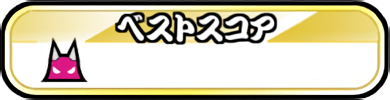
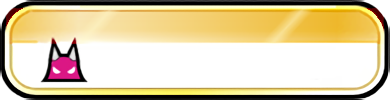
TNDE 選曲画面: 重なり順・記録の数・右上の時間・印の大きさ・自己ベスト・背景の模様を本家に合わせる
- 重なり順を本家と同じに（難易度えらびの板の上にどんちゃん・2人プレイの雲）
- 左の記録の数を、自己ベストと同じ数字の絵（灰色の字に白い縁）に
- 右上に時間の丸を出し、∞ を本家の数字と同じ灰色・太さの線で描く
- 難易度えらびの後ろの印: 本家と輪の縁を重ねて測り、1.5 倍・真ん中 (201, 408)・不透明度 0.65 に
- 自己ベスト: 枠を 1.6 倍・左上 (29, 581) に、字を「自己ベスト」に（素材の「ベストスコア」は消して描く）、帯を本家の濃い金に、数字も大きく
- 背景の模様: 本家は素材の明るさを反転したもの。周りの平均からの差で見て下まで同じ濃さに、本家と重ねて測った 1.86 倍・(-868, -53) から並べる

Claude-Session: https://claude.ai/code/session_01Me3BaKaMLtBydUuL8JSFsg

Changed region(s): [[0.0, 0.03, 0.9846, 0.45], [0.1231, 0.36, 0.1538, 0.45], [0.5538, 0.93, 0.6154, 0.96]]

diff --git a/src/home/tndeselect.ts b/src/home/tndeselect.ts
@@ -581,13 +581,8 @@ export class TndeSelect {
     const diffA = !inDiff ? 0 : this.diffOut >= 0 ? clamp(1 - this.diffOut / 300, 0, 1) : clamp((this.diffT - 1255) / 255, 0, 1);
     const course = inDiff ? this.courseAt(this.dsel) ?? 'Oni' : this.focusCourse();
     const ci = Math.max(0, COURSES.indexOf(course));
+    // 重なり順は本家と同じ: 印 → 一覧・難易度えらび → どんちゃん → 記録 → 右上 → 2人プレイの雲 → ネームプレート
     if (diffA > 0) this.mark(ci, diffA);
-    this.don();
-    this.side(ci);
-    this.full('header', 0, 1.5);
-    this.recolorHeader();
-    this.stageNums();
-    this.full('credit', 3.5, 3);
     if (listA > 0) {
       g.globalAlpha = listA;
       this.guideTop();
@@ -599,6 +594,13 @@ export class TndeSelect {
       this.diffScreen();
       g.globalAlpha = 1;
     }
+    this.don();
+    this.side(ci);
+    this.full('header', 0, 1.5);
+    this.recolorHeader();
+    this.stageNums();
+    this.timer();
+    this.full('credit', 3.5, 3);
     if (this.sk) {
       const pl = this.host.plate();
       this.sk.plate(g, { name: pl.name, title: pl.title, profile: pl.profile, wall: this.wall } as never, 60, 476);
@@ -632,21 +634,39 @@ export class TndeSelect {
         const o = document.createElement('canvas'); o.width = m.im.width; o.height = m.im.height;
         const c = o.getContext('2d')!; c.drawImage(m.im, 0, 0);
         const px = c.getImageData(0, 0, o.width, o.height), p = px.data;
-        for (let i = 0; i < p.length; i += 4) {
-          const L = (p[i] + p[i + 1] + p[i + 2]) / 3;
-          p[i] = p[i + 1] = p[i + 2] = 255;
-          p[i + 3] = clamp((L - 188) / 14, 0, 1) * 0.22 * 255;
+        // 本家の模様は、この絵の明るさを反転したもの（濃い所が白く、小さな白い点も白く）。
+        // 絵は下ほど暗いので、周り 37px の平均からの差で見る（下まで同じ濃さに）
+        const W = o.width, H = o.height;
+        const L = new Float32Array(W * H);
+        for (let i = 0; i < W * H; i++) L[i] = (p[i * 4] + p[i * 4 + 1] + p[i * 4 + 2]) / 3;
+        const I = new Float64Array((W + 1) * (H + 1));
+        for (let y = 0; y < H; y++) {
+          let row = 0;
+          for (let x = 0; x < W; x++) { row += L[y * W + x]; I[(y + 1) * (W + 1) + x + 1] = I[y * (W + 1) + x + 1] + row; }
+        }
+        const R = 18;
+        for (let y = 0; y < H; y++) {
+          const y0 = Math.max(0, y - R), y1 = Math.min(H, y + R + 1);
+          for (let x = 0; x < W; x++) {
+            const x0 = Math.max(0, x - R), x1 = Math.min(W, x + R + 1);
+            const m = (I[y1 * (W + 1) + x1] - I[y0 * (W + 1) + x1] - I[y1 * (W + 1) + x0] + I[y0 * (W + 1) + x0]) / ((x1 - x0) * (y1 - y0));
+            const d = m - L[y * W + x];
+            const i = (y * W + x) * 4;
+            p[i] = p[i + 1] = p[i + 2] = 255;
+            p[i + 3] = clamp(clamp(d * 0.05, 0, 1) * 0.5 + clamp((-d - 3.5) * 0.25, 0, 1) * 0.4, 0, 1) * 255;
+          }
         }
         c.putImageData(px, 0, 0);
         this.patCv = o;
       }
     }
     if (this.patCv) {
-      // 横に広い画面は、模様を横に並べる
-      const w = 1920 * this.s, h = 1080 * this.s;
-      for (let x = this.ox - Math.ceil(this.ox / w) * w; x < W; x += w) g.drawImage(this.patCv, x, this.oy, w, h);
+      // 本家の画面に重ねて測った: 720p の絵の 1.86 倍・左上 (-868, -53) から並べる
+      const k = 1.86 * this.s, w = 1280 * k, h = 720 * k;
+      const x0 = this.ox - 868 * this.s, y0 = this.oy - 53 * this.s;
+      for (let y = y0 - Math.ceil(y0 / h) * h; y < H; y += h) for (let x = x0 - Math.ceil(x0 / w) * w; x < W; x += w) g.drawImage(this.patCv, x, y, w, h);
     }
-  }
+}
 
   private focusCourse() {
     const it = this.center;
@@ -680,22 +700,31 @@ export class TndeSelect {
       if (b.crown !== 'fail') cnt.crown[b.crown]++;
     }
     this.full(`table${Math.min(ci, 4)}`, 1.5, -2.5);
-    const num = (v: number, x: number, y: number) => this.put(this.text(String(v), 24, 5, '#fff', { font: SEURAT, fill: '#000' }), x, y, Infinity, 'right');
+    // 数は自己ベストと同じ数字の絵（灰色の字に白い縁）。右をそろえる
+    const num = (v: number, x: number, y: number) => {
+      const ds = String(v).split('');
+      const W = 21, k = 0.83, adv = 16;
+      const x0 = x - (adv * (ds.length - 1) + W * k);
+      ds.forEach((d, i) => this.blit('levelNum', Number(d) * W, 0, W, 25, x0 + i * adv, y - (25 * k) / 2, W * k, 25 * k));
+    };
     // 上の右: 極、1 段目: 雅（3 つ）、2 段目: 粋（3 つ）、3 段目: 王冠
     num(cnt.rank[7], 306, 354);
     const rows = [[4, 5, 6], [1, 2, 3]];
     rows.forEach((r, ri) => r.forEach((rk, k) => num(cnt.rank[rk], (42 + 62 * k + 38) * 1.5, (261 + 24 * ri) * 1.5)));
     (['clear', 'fc', 'allgood'] as const).forEach((cr, k) => num(cnt.crown[cr], (42 + 62 * k + 38) * 1.5, 309 * 1.5));
     this.full('point');
-    this.full(`score${Math.min(ci, 4)}`, -6, 10);
+    // 自己ベスト: 本家と重ねて測った 1.6 倍・左上 (29, 581)
+    const sc = this.imgs.get(`score${Math.min(ci, 4)}`);
+    if (sc) this.g.drawImage(sc.im, 29, 581, sc.w * 1.6, sc.h * 1.6);
+    this.put(this.text('自己ベスト', 18.5, 6, '#0c0806', { font: SEURAT }), 182, 605);
     const it = this.center;
     const b = it.kind === 'song' ? this.best[`${it.s.id}:${c}`] : undefined;
-    if (b) this.bestNum(b.score, 220, 633);
+    if (b) this.bestNum(b.score, 220, 632);
   }
 
   private bestNum(n: number, cx: number, cy: number) {
     const ds = String(n).split('');
-    const W = 21, k = 1.2, adv = 20;
+    const W = 21, k = 1.15, adv = 20.5;
     const x0 = cx - (adv * (ds.length - 1) + W * k) / 2;
     ds.forEach((d, i) => this.blit('levelNum', Number(d) * W, 0, W, 25, x0 + i * adv, cy - (25 * k) / 2, W * k, 25 * k));
   }
@@ -703,6 +732,30 @@ export class TndeSelect {
   private stageNums() {
     this.put(this.text('1', 32, 8, '#000', { font: SEURAT }), 1688, 273.5, Infinity, 'right');
     this.put(this.text('∞', 26, 6, '#000', { font: SEURAT }), 1812.5, 276);
+  }
+
+  /** 右上の時間（TJAtelier は時間を区切らないので ∞。本家の数字と同じ灰色・太さの線で） */
+  private timer() {
+    const m = this.imgs.get('headerTimer');
+    if (!m) return;
+    const k = 1.49, x = 1687, y = 31;
+    this.g.drawImage(m.im, x, y, m.w * k, m.h * k);
+    const cx = x + (m.w * k) / 2, cy = y + (m.h * k) / 2;
+    const g = this.g;
+    g.save();
+    g.strokeStyle = '#474747';
+    g.lineWidth = 11.5;
+    g.lineCap = 'round';
+    g.beginPath();
+    const a = 50, b = 52;
+    for (let i = 0; i <= 120; i++) {
+      const t = (i / 120) * Math.PI * 2;
+      const d = 1 + Math.sin(t) ** 2;
+      const px = cx + (a * Math.cos(t)) / d, py = cy + (b * Math.sin(t) * Math.cos(t)) / d;
+      if (i) g.lineTo(px, py); else g.moveTo(px, py);
+    }
+    g.stroke();
+    g.restore();
   }
 
   /** 左上の太鼓の案内（ばちで叩く・矢印が上下に） */
@@ -868,9 +921,10 @@ export class TndeSelect {
     if (!m) return;
     const g = this.g;
     g.save();
-    g.globalAlpha = 0.45 * a;
-    const k = 1.13;
-    g.drawImage(m.im, 177 - (m.w * k) / 2, 363 - (m.h * k) / 2, m.w * k, m.h * k);
+    // 本家の画面に輪の縁を重ねて測った: 1.5 倍・真ん中 (201, 408)・不透明度 0.65
+    g.globalAlpha = 0.65 * a;
+    const k = 1.5;
+    g.drawImage(m.im, 201 - (m.w * k) / 2, 408 - (m.h * k) / 2, m.w * k, m.h * k);
     g.restore();
   }
 

diff --git a/tools/skin/select.py b/tools/skin/select.py
@@ -72,9 +72,37 @@ put('levelNum', rd('Level_Number.png'))
 put('bg', rd('Background.png'), q=1, lossy=True)
 for n in ['Header', 'Credit', 'Point']:
     put(n.lower(), rd('%s.png' % n), trim=True)
+
+
+def delabel(im):
+    """自己ベストの枠の「ベストスコア」の字を消す（本家は「自己ベスト」。字は描くときに書く）"""
+    p = im[384:434, 26:221].astype(np.float32)
+    x0, x1 = 40, 168
+    # 上の縁と、字の下の白い所は横に同じなので、字の無い列から写す
+    p[0:4, x0:x1] = p[0:4, 20:21]
+    p[22:25, x0:x1] = p[22:25, 20:21]
+    # 金の帯: 左右の列の間を横にならし、本家と同じ所に斜めの明るい筋を 2 本
+    L, R = p[4:22, x0 - 1:x0], p[4:22, x1:x1 + 1]
+    t = (np.arange(x0, x1) - (x0 - 1)) / (x1 - x0 + 1)
+    p[4:22, x0:x1] = L * (1 - t[None, :, None]) + R * t[None, :, None]
+    for cx in (47, 143):
+        for y in range(4, 22):
+            for x in range(cx - 14, cx + 15):
+                a = max(0.0, 1 - abs((x - cx) + (y - 13) * 0.9) / 6.0) * 0.55
+                if a > 0:
+                    p[y, x, :3] = p[y, x, :3] * (1 - a) + np.array([215, 250, 255]) * a
+    # 金の帯を本家の濃い金に（本家の画面からスポイトで取った色に合わせる。BGR）
+    band = p[4:22, 3:192, :3]
+    p[4:22, 3:192, :3] = 255 - (255 - band) * np.array([1.3, 1.45, 0.7])
+    im = im.copy()
+    im[384:434, 26:221] = np.clip(p, 0, 255).astype(np.uint8)
+    return im
+
+
 for i in range(5):
     put('table%d' % i, rd('Table/%d.png' % i), trim=True)
-    put('score%d' % i, rd('Score/%d.png' % i), trim=True)
+    put('score%d' % i, delabel(rd('Score/%d.png' % i)), trim=True)
+put('headerTimer', rd('Header_Timer.png'), trim=True)
 for i in range(-1, 12):
     put('boxChara%d' % i, rd('Box_Chara/Box_Chara_%d.png' % i), lossy=True, qual=94)
 for n in ['Base', 'Taiko', 'Bachi', 'Arrow_Down', 'Arrow_Up', 'Don', 'Ka']:
